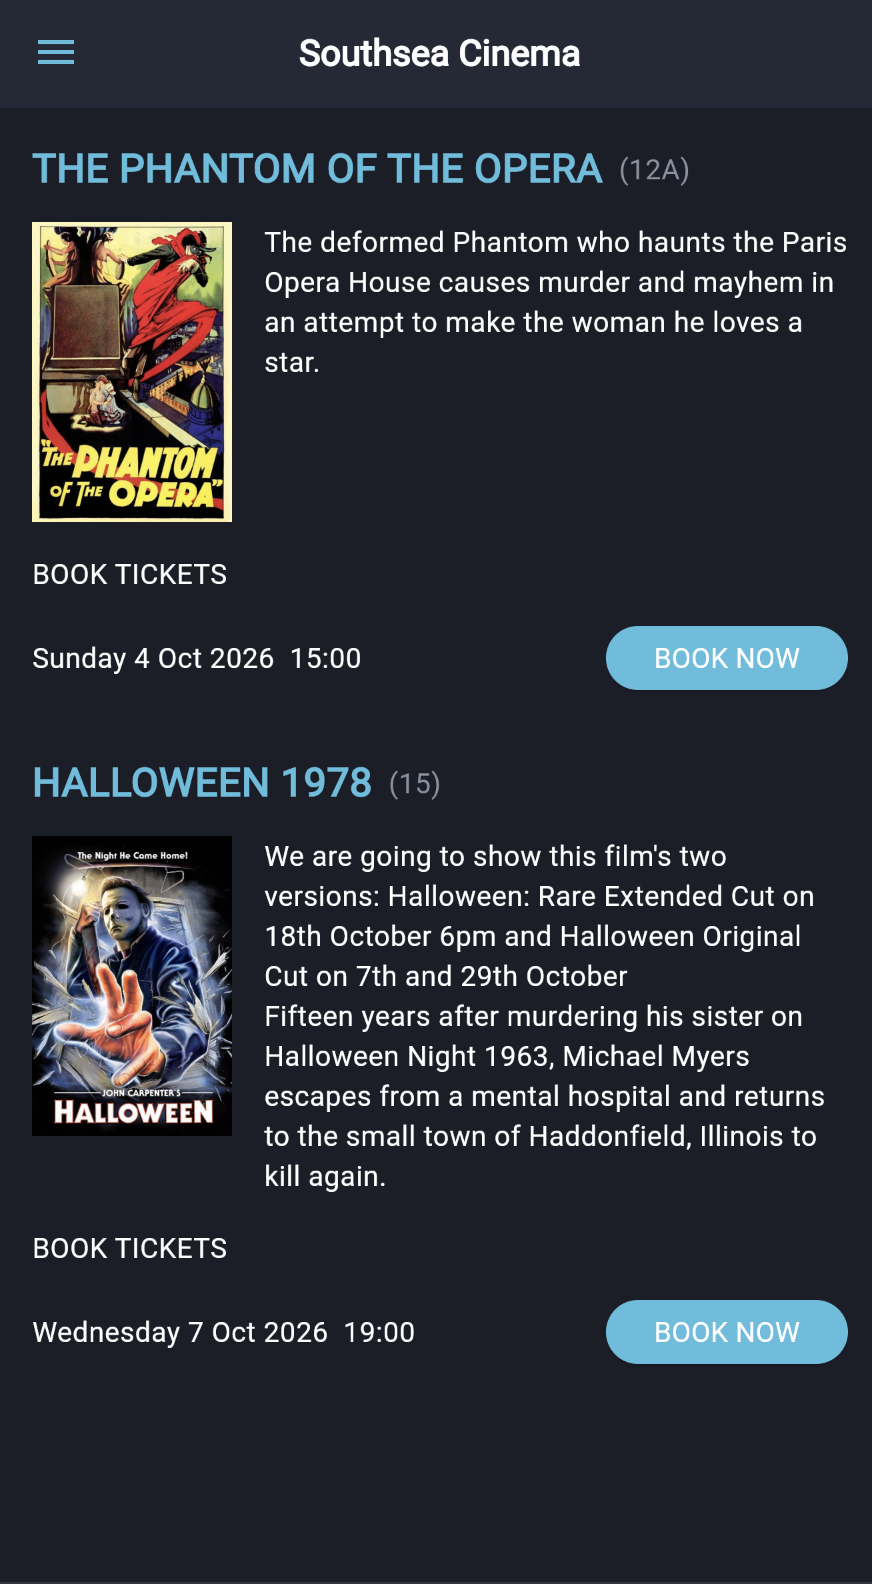
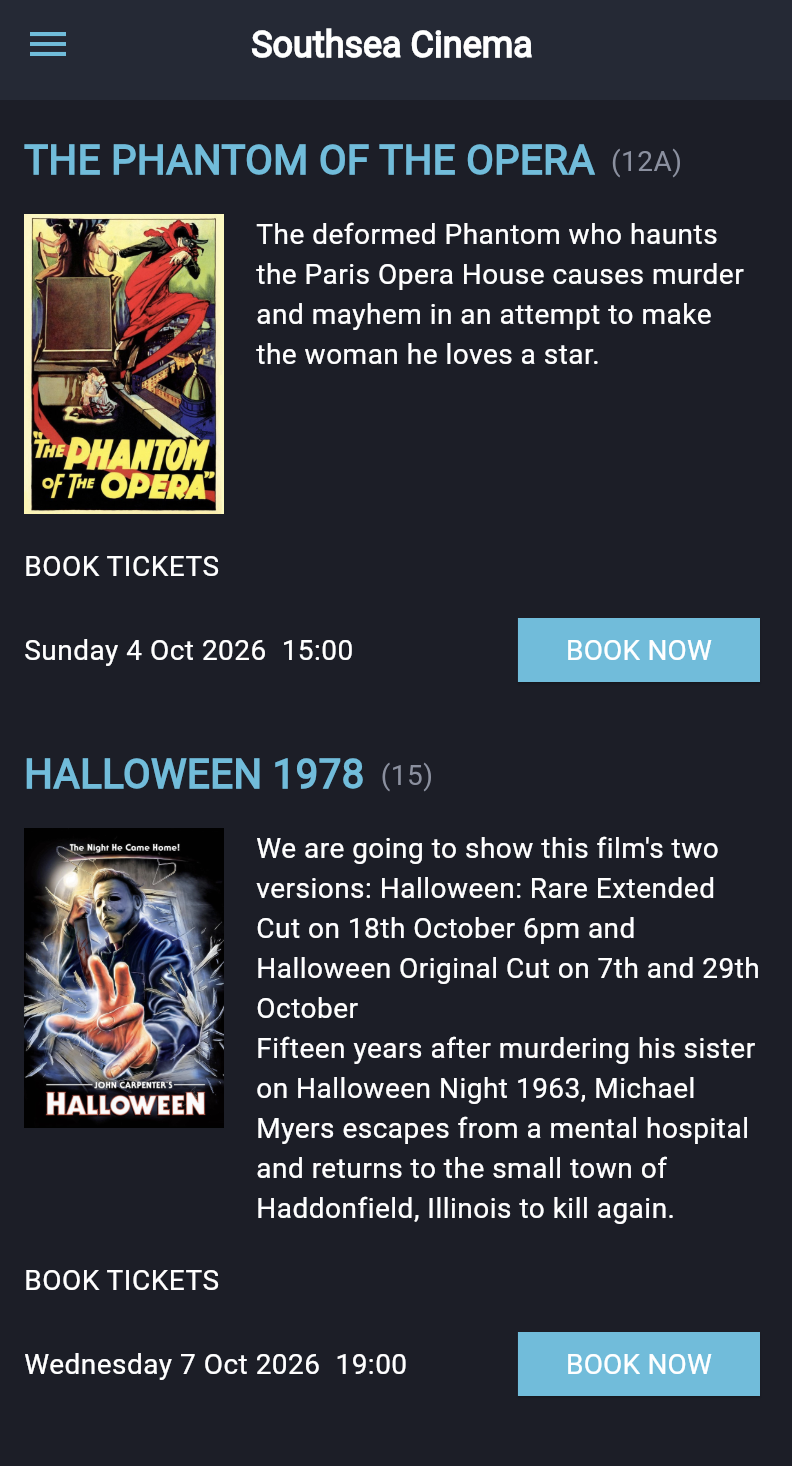
docs: update Worksheet 3 screenshots and enforce code style rules

diff --git a/AGENTS.md b/AGENTS.md
@@ -173,12 +173,27 @@ clarity, expressiveness, and ease of understanding for students:
 - Declare variables and types explicitly rather than relying heavily on type
   inference or chained inline expressions when introducing concepts.
 - Repetition and verbosity are preferred if they make the logic transparent
-  and easier for newcomers to follow and debug.
+  and easier for newcomers to follow and debug. Code should always be longer
+  and easier to read than compact: use typed variables, visible named functions,
+  descriptive variable names, and simple `if` statements or procedural loops
+  over shortcuts.
+- Curriculum progression constraints across teaching branches and worksheets:
+  - Worksheets 1 & 2 concepts used: `StatelessWidget`, `StatefulWidget`,
+    `setState`, explicit types (`int`, `double`, `String`, `bool`), `Container`,
+    `SizedBox`, `ElevatedButton`, `IconButton`, `ListView.builder`, and
+    `DropdownMenu`.
+  - Worksheets 3 & 4 concepts used: Class definitions, repository pattern,
+    explicit procedural `for-in` loops (no arrow syntax or functional chained
+    methods), and unit/widget tests (`test`, `expect`, `testWidgets`).
 - Critical constraint: never refactor or simplify worksheet code snippets or
   application code at the expense of breaking existing screenshots or
   instructions in the worksheets. If an existing screenshot displays shorthand
   or arrow syntax, keep the exact snippet in the worksheet so it matches the
   screenshot, and explain the verbose block alternative in prose.
+- Southsea Cinema button standardisation: buttons must always be squared
+  without rounded corners (`shape: const RoundedRectangleBorder(borderRadius: BorderRadius.zero)`),
+  matching the live Southsea Cinema site design. Never use default Material 3
+  rounded or stadium buttons in Demo 3 and onwards.
 
 ### Lecture files
 

diff --git a/worksheet-3.md b/worksheet-3.md
@@ -711,4 +711,6 @@ In Worksheet 2 you built a hardcoded movie listing page for Dracula. For Demo 2,
     // const DrawerTile(title: 'Movie Listing', route: '/listing'),
     ```
 
-    The listing page is now reached only through a film's booking button.
+    The listing page is now reached only through a film's booking button. So for example, if the user clicked on the Phantom of the Opera's booking button, the user should be navigated to the `MovieListing` page with the Phantom of the Opera's details as shown below:
+
+    ![The MovieListing page with the Phantom of the Opera's details](images/3/southsea_cinema_movie_listing.png)
